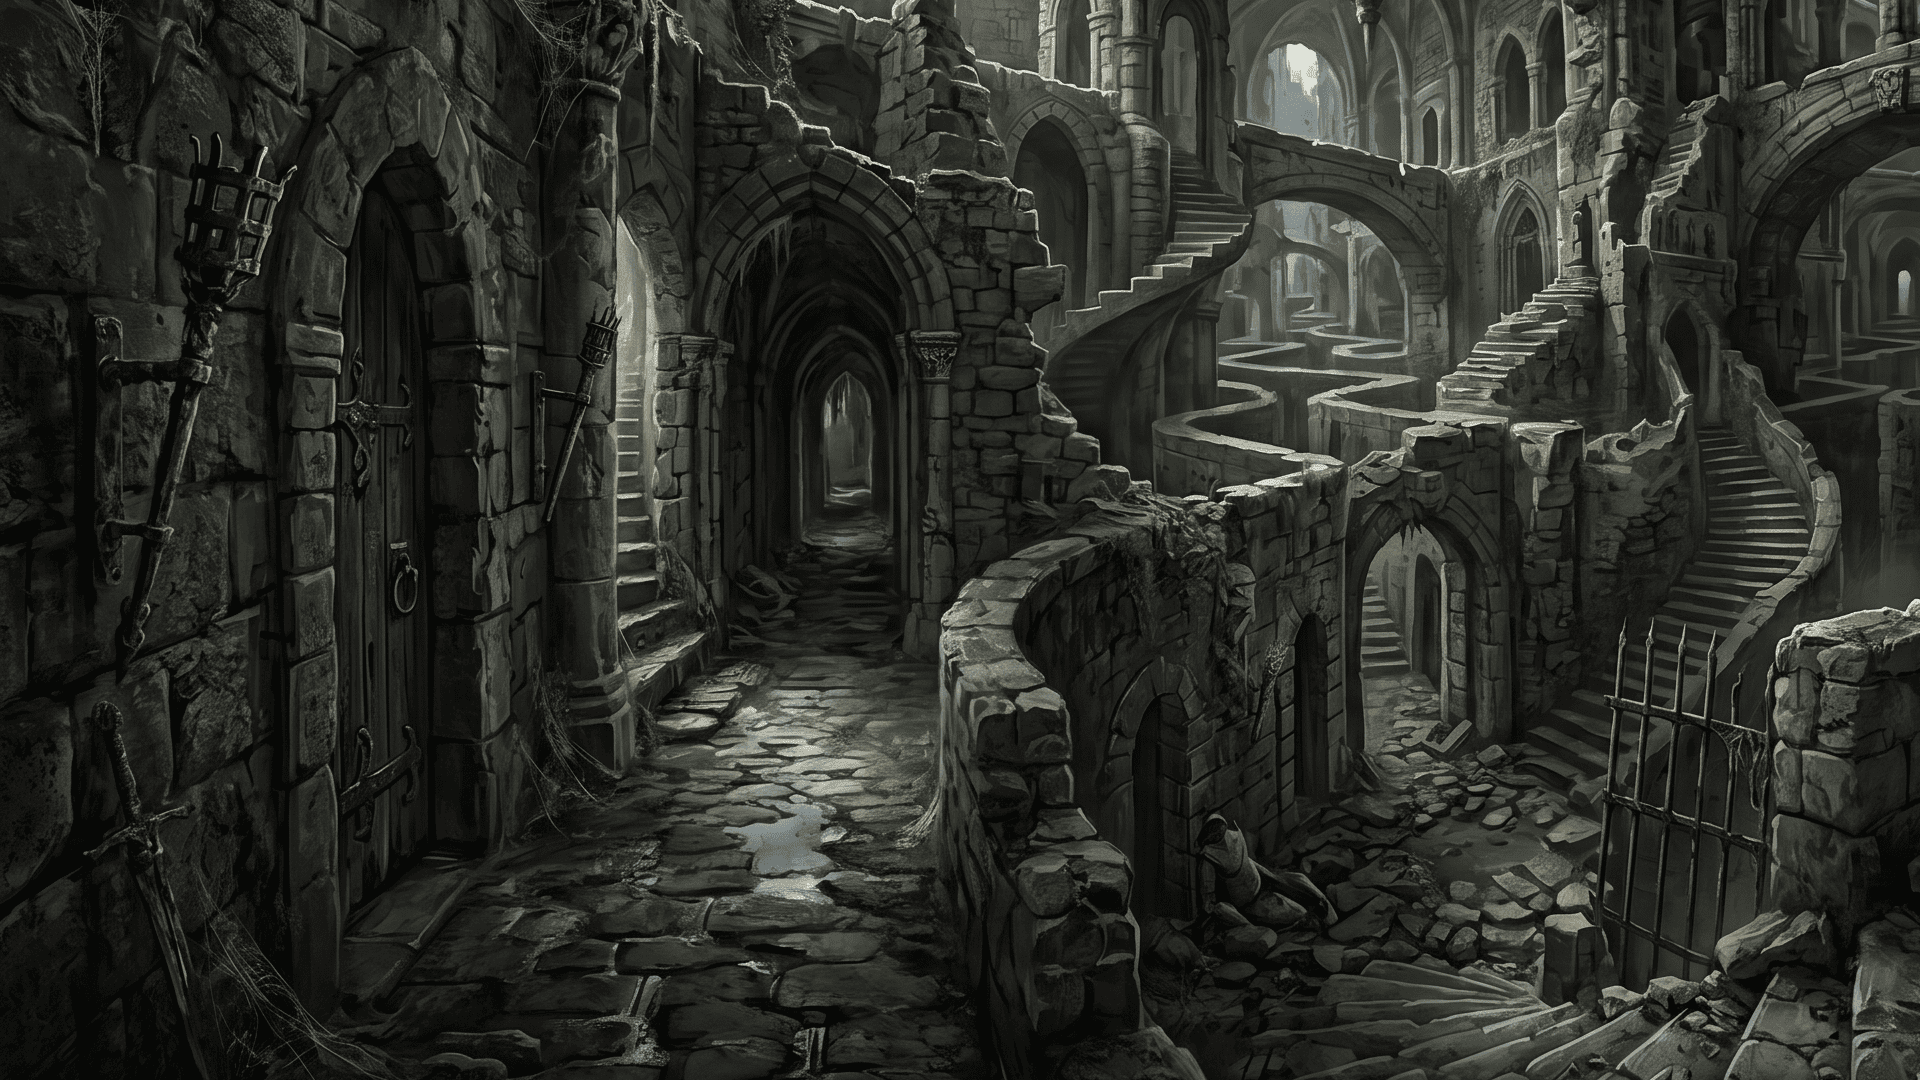
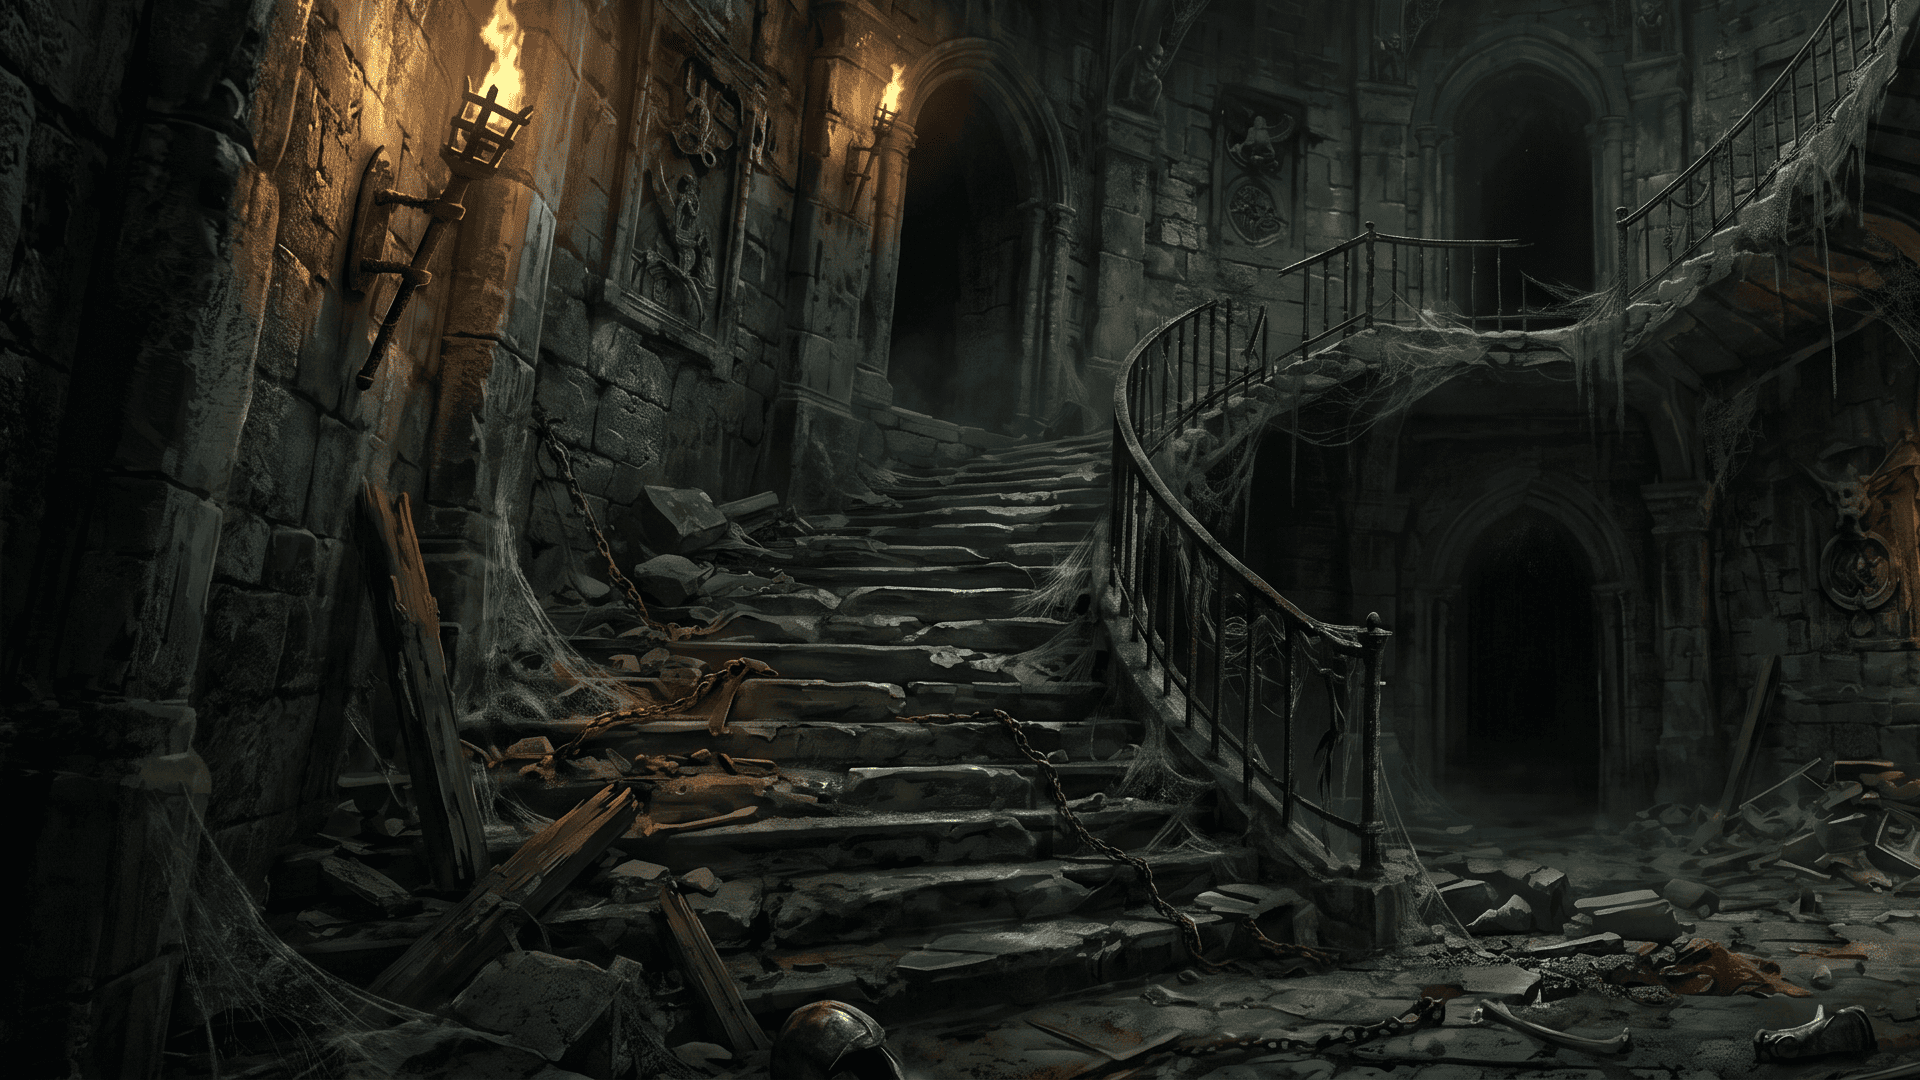
Add files via upload

diff --git a/index.html b/index.html
@@ -1998,7 +1998,7 @@ const DB = {
         "pride_f18": ["pride_beholder", "pride_wolf", "pride_deathsword", "pride_stairs"],
         "pride_f19": ["pride_beholder", "pride_wolf", "pride_deathsword", "pride_stairs"],
         "pride_f20": ["pride_beholder", "pride_wolf", "pride_deathsword", "pride_phantom_boss"],
-        "pride_11_20": ["pride_beholder", "pride_wolf", "pride_deathsword", "pride_phantom_boss"],
+        "pride_11_20": ["succubus", "pride_wolf", "pride_mimic", "pride_beholder", "pride_deathsword", "pride_phantom_boss"],
         // 攀登 21~30 樓
         "pride_f21": ["pride_fireegg", "pride_nightmare", "pride_stairs"],
         "pride_f22": ["pride_fireegg", "pride_nightmare", "pride_hellhound", "pride_stairs"],
@@ -2010,7 +2010,7 @@ const DB = {
         "pride_f28": ["pride_ifrit", "pride_hellhound", "pride_imp", "pride_stairs"],
         "pride_f29": ["pride_ifrit", "pride_hellhound", "pride_imp", "pride_stairs"],
         "pride_f30": ["pride_ifrit", "pride_hellhound", "pride_imp", "pride_nightmare", "pride_vampire_boss"],
-        "pride_21_30": ["pride_ifrit", "pride_hellhound", "pride_imp", "pride_nightmare", "pride_vampire_boss"],
+        "pride_21_30": ["pride_ifrit", "pride_fireegg", "pride_hellhound", "pride_imp", "pride_nightmare", "pride_vampire_boss"],
     }
 }; // DB 結尾在這裡
 
@@ -5763,6 +5763,7 @@ function prideTeleportBlocked() {
 function enterPrideFloor(n) {
     saveSiegeBossHp();
     mapState.current = 'pride_f' + n;
+    player.lastBattleMap = mapState.current;   // 🗼 記錄攀登位置：回村後點「出發」會被導回傲慢之塔1樓（見 departToLastBattle）
     state.prideFloor = n;
     mapState.mobs = [null, null, null];
     state._kbRespawnAt = null;
@@ -9800,6 +9801,12 @@ function departToLastBattle() {
     if (tgt && SIEGE_OUTER_INNER.includes(tgt) && !(player.siege && player.siege.active)) {
         tgt = 'training';
         player.lastBattleMap = 'training';
+    }
+    // 🗼 傲慢之塔：上一個戰鬥地點若在塔內（攀登層或樓層區間）→ 一律導回 傲慢之塔1樓（入口），不直接重進樓層（避免重複消耗移動卷軸）
+    if (tgt && typeof tgt === 'string' && tgt.startsWith('pride_')) {
+        setMapSelectors('town_pride');
+        changeMap();
+        return;
     }
     if (!tgt || (!DB.maps[tgt] && !KING_ROOMS[tgt])) { logSys('<span class="text-slate-400">尚無上一張戰鬥地圖，請從地圖選單選擇前往。</span>'); return; }
     if (KING_ROOMS[tgt] && !player.inv.some(i => i.id === 'item_king_key' && (i.cnt || 1) >= 1)) {